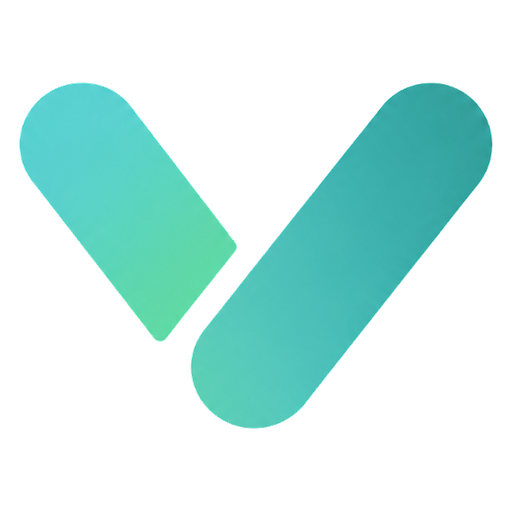
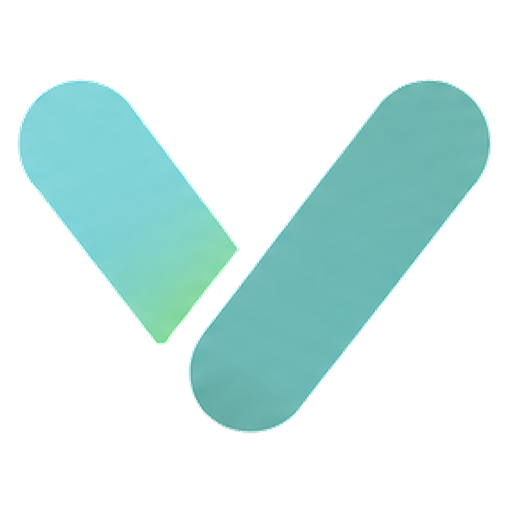
feat(auth): login redesigned to the user's mock + the new brand artwork
The login page is one centered card: a warm-cream crown ending in a
pedestal curve, the brand mark in a white medallion straddling it,
welcome copy and three capsule-pill benefits (all live i18n, he+en),
then the quiet form — eye-toggle PasswordField, forgot-password under
the field, divider + register link. Three earlier shapes (signup-style
side panel, flat teal band, teal-gradient crown) were rejected by the
user in live review.

Brand refresh: the user's VitaShop-correct.png replaces the logo
source; the V mark is cropped from it and the committed pipelines
reran (mark, favicon, apple-touch-icon). New committed
scripts/make-logo-transparent.py derives the transparent lockup and
prints the content bbox; logoFrame.ts re-measured (1672x941, content
249,358,1212x222).

Review (8 angles, 10 findings, all fixed): curve-clip escape measured
and closed - shadows removed per DESIGN_SYSTEM #3/DEC-041 - merge-report
focus moved to the report (the unmount-takes-focus family) - dead
login.title key dropped - auth gains its missing i18n parity suite
(+3 tests, control included) - stale logoFrame/CONTENT_ASSETS/AuthCard
records corrected.

client 1060/1060 - build 0 - overflow clean at 8 widths x he+en.

Changed region(s): [[0.0312, 0.1562, 0.9688, 0.8438]]

diff --git a/client/src/pages/LoginPage.tsx b/client/src/pages/LoginPage.tsx
@@ -1,8 +1,12 @@
-import { useState, type FormEvent } from 'react'
+import { useEffect, useRef, useState, type FormEvent, type ReactNode } from 'react'
 import { TextLink } from '../components/ui/TextLink'
 import { useTranslation } from 'react-i18next'
 import { useNavigate } from 'react-router'
-import { AuthCard, Field, FormError } from '../components/auth/AuthLayout'
+import { Field, FormError } from '../components/auth/AuthLayout'
+import { PasswordField } from '../components/auth/PasswordField'
+import { Logo } from '../components/brand/Logo'
+import { Icon } from '../components/ui/Icon'
+import { CheckCircleIcon } from '../components/icons'
 import { Button } from '../components/ui/Button'
 import { login, type AuthFailure } from '../lib/authApi'
 import { isCartMergeReport } from '../lib/cartApi'
@@ -12,6 +16,16 @@ import type { CartMergeReport } from '../types/cart'
 
 /**
  * MILESTONE-006 Checkpoint H — the login form.
+ * Redesigned 2026-08-25 to the user's mock, re-shaped twice on their
+ * feedback (the two-panel side layout read as "same design as two other
+ * pages"; the flat band "still not looking good"). The shipped shape is
+ * ONE centered card whose header is the design: a warm-cream crown (the
+ * user's swatch — the surface-section token) ending in a shallow PEDESTAL
+ * CURVE (the home hero's ellipse language), the brand mark in a white
+ * medallion straddling the curve, ברוכים הבאים in display ink, the user's
+ * sentence, and the three benefits as CAPSULE PILLS — the supplement-shop
+ * wink. Form below, quiet. All copy live i18n; no image asset. (An earlier
+ * teal-gradient crown was rejected by the user — don't reintroduce it.)
  *
  * 🔴 CLAUSE H2. A1 IS UNDONE BY A HELPFUL UI AS EASILY AS BY A HELPFUL API.
  * The server returns ONE failure for unknown email, wrong password, locked
@@ -28,6 +42,63 @@ import type { CartMergeReport } from '../types/cart'
  * that format is a fact about what was typed, existence is a fact about who
  * is registered.
  */
+
+/**
+ * The one-card shell, shared by the form and the merge-report state so the
+ * card never changes shape mid-flow. The header is real content (the <h1>
+ * lives in it), never a decorative panel. The pedestal curve is drawn with
+ * an asymmetric border-radius on the teal block — the white card ground
+ * showing through the rounded bottom corners IS the curve; no SVG, no
+ * pseudo-element, so it mirrors trivially and costs nothing.
+ */
+function LoginShell({ children }: { children: ReactNode }) {
+  const { t } = useTranslation(['auth', 'common'])
+  return (
+    <section aria-labelledby="login-title" className="mx-auto w-full max-w-md px-4 py-4 sm:max-w-lg sm:py-5">
+      {/* No at-rest shadow — DESIGN_SYSTEM §3 / DEC-041 reserve elevation
+          for transient hover/focus states; the border carries the edge. */}
+      <div className="overflow-hidden rounded-card border border-border-card bg-well">
+        {/* The crown — the user's swatch is the system's warm cream
+            (surface-section), so the crown wears that token with ink text
+            and a sunken-tone highlight circle, ending in the pedestal
+            curve. pb accounts for the medallion overlapping below. */}
+        <div
+          className="relative bg-surface-section px-6 pb-9 pt-4 text-center"
+          style={{ borderRadius: '0 0 50% 50% / 0 0 26px 26px' }}
+        >
+          {/* The clip wrapper carries the SAME border-radius as the crown:
+              a rectangular clip let the circle paint over the corner where
+              the white ground draws the curve (caught by review — measured
+              circle bottom 259px vs crown bottom 249px). */}
+          <div
+            aria-hidden="true"
+            className="pointer-events-none absolute inset-0 overflow-hidden"
+            style={{ borderRadius: '0 0 50% 50% / 0 0 26px 26px' }}
+          >
+            <div className="absolute -top-14 -end-10 size-44 rounded-full bg-surface-sunken/70" />
+          </div>
+          <p className="relative font-display text-base font-medium text-brand-teal-strong">
+            {t('app.name', { ns: 'common' })}
+          </p>
+          <h1 id="login-title" className="relative mt-0.5 font-display text-2xl font-semibold text-text-ink">
+            {t('login.welcomeTitle')}
+          </h1>
+        </div>
+        {/* The medallion — the transparent mark in a white disc straddling
+            the curve. Decorative (the wordmark above already names the
+            brand); Logo's own alt is suppressed by the aria-hidden span. */}
+        <span
+          aria-hidden="true"
+          className="relative z-10 mx-auto -mt-9 flex size-16 items-center justify-center rounded-full border border-border-card bg-well motion-safe:animate-[hero-shelf-rise_.45s_ease-out_both]"
+        >
+          <Logo variant="mark" size={42} />
+        </span>
+        <div className="px-6 pb-5 pt-2">{children}</div>
+      </div>
+    </section>
+  )
+}
+
 export function LoginPage() {
   const { t, i18n } = useTranslation('auth')
   const { t: tCart } = useTranslation('cart')
@@ -50,6 +121,16 @@ export function LoginPage() {
    * be surprised by, so it navigates exactly as before.
    */
   const [mergeReport, setMergeReport] = useState<CartMergeReport | null>(null)
+  /**
+   * 🔴 The unmount-takes-focus family (browser-verification.md): swapping the
+   * form for the report unmounts the focused submit button, and a status
+   * region that mounts WITH its content is not announced. Moving focus to
+   * the report container makes the outcome both reachable and read aloud.
+   */
+  const reportRef = useRef<HTMLDivElement | null>(null)
+  useEffect(() => {
+    if (mergeReport) reportRef.current?.focus()
+  }, [mergeReport])
 
   async function onSubmit(event: FormEvent) {
     event.preventDefault()
@@ -124,9 +205,16 @@ export function LoginPage() {
     const unavailable = mergeReport.dropped.filter((entry) => entry.reason === 'UNAVAILABLE')
 
     return (
-      <AuthCard titleId="login-title" title={t('login.title')}>
-        {/* One region, polite: this is a report, not an error to interrupt with. */}
-        <div role="status" className="flex flex-col gap-3 text-sm text-text-ink">
+      <LoginShell>
+        {/* One region, polite: this is a report, not an error to interrupt
+            with. tabIndex -1 so the effect above can land focus here after
+            the form (and its focused submit button) unmounts. */}
+        <div
+          role="status"
+          ref={reportRef}
+          tabIndex={-1}
+          className="mt-4 flex flex-col gap-3 text-sm text-text-ink outline-none"
+        >
           {mergeReport.mergeFailed && <p className="text-state-error">{tCart('merge.failed')}</p>}
           {mergeReport.merged && !mergeReport.mergeFailed && <p>{tCart('merge.merged')}</p>}
           {mergeReport.clampedSlugs.length > 0 && (
@@ -152,12 +240,32 @@ export function LoginPage() {
             {tCart('page.backToCatalog')}
           </TextLink>
         </p>
-      </AuthCard>
+      </LoginShell>
     )
   }
 
   return (
-    <AuthCard titleId="login-title" title={t('login.title')}>
+    <LoginShell>
+      <p className="mx-auto max-w-md text-center text-sm text-text-muted">
+        {t('login.welcomeBody')}
+      </p>
+      {/* The three benefits as capsule pills — flat text in the mock, given
+          the shop's own shape here. Soft teal fill, strong-teal ink
+          (measured family: brand-teal-strong on the /10 wash ≥7:1). */}
+      <ul className="mt-3 flex flex-wrap justify-center gap-2">
+        {(['bullet1', 'bullet2', 'bullet3'] as const).map((key, index) => (
+          <li
+            key={key}
+            className="flex items-center gap-1 rounded-round bg-brand-teal/10 px-2.5 py-1.5 text-xs font-medium text-brand-teal-strong motion-safe:animate-[hero-shelf-rise_.45s_ease-out_both]"
+            style={{ animationDelay: `${90 + index * 70}ms` }}
+          >
+            <Icon size={14} className="shrink-0 text-brand-teal">
+              <CheckCircleIcon />
+            </Icon>
+            {t(`login.${key}`)}
+          </li>
+        ))}
+      </ul>
       <form onSubmit={onSubmit} noValidate>
         <Field
           label={t('login.emailLabel')}
@@ -170,13 +278,19 @@ export function LoginPage() {
           // this field invalid on a failed login points at the email as the
           // problem, which is exactly what A1 refuses to say.
         />
-        <Field
+        <PasswordField
           label={t('login.passwordLabel')}
-          type="password"
           autoComplete="current-password"
           value={password}
           onChange={setPassword}
         />
+        {/* The mock places forgot-password directly under the field, on the
+            inline-end side — logical alignment, so it mirrors in RTL. */}
+        <p className="mt-1 text-end text-sm">
+          <TextLink to="/forgot-password">
+            {t('login.forgotPassword')}
+          </TextLink>
+        </p>
 
         <FormError message={message} />
 
@@ -185,17 +299,19 @@ export function LoginPage() {
         </Button>
       </form>
 
-      <p className="mt-6 text-sm">
-        <TextLink to="/forgot-password">
-          {t('login.forgotPassword')}
-        </TextLink>
-      </p>
-      <p className="mt-2 text-sm text-text-muted">
+      {/* The mock's divider — decorative; the register link is the content. */}
+      <div aria-hidden="true" className="mt-4 flex items-center gap-3">
+        <span className="h-px flex-1 bg-border-hairline" />
+        <span className="text-sm text-text-muted">{t('login.orDivider')}</span>
+        <span className="h-px flex-1 bg-border-hairline" />
+      </div>
+
+      <p className="mt-2 text-center text-sm text-text-muted">
         {t('login.noAccount')}{' '}
         <TextLink to="/register" inline>
           {t('login.registerLink')}
         </TextLink>
       </p>
-    </AuthCard>
+    </LoginShell>
   )
 }

diff --git a/client/src/components/brand/logoFrame.ts b/client/src/components/brand/logoFrame.ts
@@ -1,34 +1,30 @@
 /**
  * Frame geometry for `vitashop-logo-transparent.png` — replaces a flawed
  * `object-fit: cover` attempt. `cover`'s crop is driven by the FULL
- * CANVAS's own aspect ratio (1536×1024 = 1.5) vs. the box, not by the
- * trimmed content's aspect ratio (5.58). Since 1.5 is squarer than any
- * usable header-logo box (~6:1), `cover` is *always* width-constrained
- * for this asset — it shows the entire 1536px width (including ~360px of
- * side padding) and only ever crops vertically. Two real consequences,
- * confirmed by the arithmetic, not assumed:
- *   1. The rendered wordmark ends up smaller than intended, because a
- *      third of the box's width is unavoidably spent on transparent
- *      side-padding instead of letters — this is what read as "soft".
- *   2. Centering on the CANVAS's vertical midpoint (512) instead of the
- *      CONTENT's own vertical midpoint (484.5, since the content sits
- *      higher in the canvas than centre) clipped ~5.5 original-px off
- *      the content's top edge — sub-pixel at these sizes, but real, and
- *      exactly the kind of accidental clip this rewrite removes on
- *      principle rather than leaving in place because it's small.
+ * CANVAS's aspect ratio vs. the box, not by the trimmed content's much
+ * wider aspect. Every revision of this asset has a canvas far squarer
+ * than any usable header-logo box (~5.5:1 content), so `cover` is always
+ * width-constrained: it spends box width on transparent side-padding
+ * (rendering the wordmark smaller than intended, which read as "soft")
+ * and centres on the canvas midpoint instead of the content's own,
+ * clipping the content's edge by whatever the two midpoints differ.
  *
  * Fix: scale from the CONTENT's own bounding box, then translate so the
  * content is centred in a wrapper sized to content + a safe margin.
- * Content bbox (measured by pixel/alpha scan, see CONTENT_ASSETS.md):
- * x=187, y=379, w=1177, h=211 inside the 1536×1024 canvas.
+ * Content bbox is measured by alpha scan — never hand-estimated — by the
+ * committed derivation script `scripts/make-logo-transparent.py`, which
+ * prints it when regenerating the transparent asset; the doc of record is
+ * design/CONTENT_ASSETS.md in the memory system. Re-measured 2026-08-25
+ * for the user's replacement artwork (VitaShop-correct.png — teal mark +
+ * navy wordmark): x=249, y=358, w=1212, h=222 inside the 1672×941 canvas.
  */
 
-const SOURCE_WIDTH = 1536
-const SOURCE_HEIGHT = 1024
-const CONTENT_X = 187
-const CONTENT_Y = 379
-const CONTENT_WIDTH = 1177
-const CONTENT_HEIGHT = 211
+const SOURCE_WIDTH = 1672
+const SOURCE_HEIGHT = 941
+const CONTENT_X = 249
+const CONTENT_Y = 358
+const CONTENT_WIDTH = 1212
+const CONTENT_HEIGHT = 222
 
 /** 8% of the scaled content's own size, split evenly on each side — enough to never clip, small enough not to shrink the logo. */
 const MARGIN_RATIO = 0.08

diff --git a/client/src/locales/auth.i18n.test.ts b/client/src/locales/auth.i18n.test.ts
@@ -1,0 +1,38 @@
+import { describe, expect, it } from 'vitest'
+import authHe from './he/auth.json'
+import authEn from './en/auth.json'
+import { validateNamespacePair, type LocaleTree } from './localeIntegrity'
+
+/**
+ * Namespace-integrity test for `auth` — added 2026-08-25 (the login
+ * redesign review): auth was the ONE shipped namespace without the shared
+ * 9-rule validator, and that same pass hand-added six keys to both locales
+ * with nothing guarding them. Same shape as every sibling suite: the real
+ * pair must pass, and a control proves the check can go red.
+ *
+ * No plural families; no placeholders — key parity is the load-bearing
+ * rule.
+ */
+
+const HE = authHe as unknown as LocaleTree
+const EN = authEn as unknown as LocaleTree
+
+describe('auth namespace integrity', () => {
+  it('the shipped he/en pair passes the full validator', () => {
+    expect(validateNamespacePair(HE, EN)).toEqual([])
+  })
+
+  it('🔴 the control — a he-only key is caught', () => {
+    const mutated = { ...HE, login: { ...(HE.login as LocaleTree), extraKey: 'ערך' } }
+    expect(validateNamespacePair(mutated, EN)).not.toEqual([])
+  })
+
+  it('the login redesign keys the page renders all exist', () => {
+    for (const tree of [HE, EN]) {
+      const login = tree.login as Record<string, unknown>
+      for (const key of ['welcomeTitle', 'welcomeBody', 'bullet1', 'bullet2', 'bullet3', 'orDivider']) {
+        expect(typeof login[key], `login.${key}`).toBe('string')
+      }
+    }
+  })
+})

diff --git a/client/src/components/auth/AuthLayout.tsx b/client/src/components/auth/AuthLayout.tsx
@@ -27,7 +27,11 @@ export function AuthCard({
       aria-labelledby={titleId}
     >
       {/* Same section-scale display treatment as RequireAuth's gate title —
-          the two render the same auth moment and must match. */}
+          the two render the same auth moment and must match. (LoginPage left
+          AuthCard in the 2026-08-25 redesign, on the user's direction — its
+          welcome heading is deliberately larger; that departure amends this
+          pairing for login only, the gate and the remaining AuthCard pages
+          still match each other.) */}
       <h1 id={titleId} className="heading-section">
         {title}
       </h1>

diff --git a/scripts/make-logo-transparent.py b/scripts/make-logo-transparent.py
@@ -1,0 +1,68 @@
+# ISSUE-018 follow-up — derive the transparent full-logo (mark + wordmark)
+# from the untouched source, the same family as make-mark-transparent.py and
+# make-favicon.py. Committed (2026-08-25 review finding) so the next logo
+# revision regenerates the asset and re-measures the content bbox with one
+# command instead of hand-typing constants.
+#
+# Reads assets/brand/source/logo-with-name.png (never modified), lifts the
+# near-white ground to transparency across the FULL canvas (no trim — the
+# Logo component's frame math in client/src/components/brand/logoFrame.ts
+# handles content placement), prints the content bbox to copy into
+# logoFrame.ts, and exports to both homes the repo convention uses:
+#
+#   assets/brand/web/vitashop-logo-transparent.png         the canonical derived asset
+#   client/src/assets/brand/vitashop-logo-transparent.png  the bundler's copy
+#
+# Run from the repo root:  python scripts/make-logo-transparent.py
+from pathlib import Path
+
+from PIL import Image
+
+REPO = Path(__file__).resolve().parent.parent
+SRC = REPO / "assets/brand/source/logo-with-name.png"
+OUTS = [
+    REPO / "assets/brand/web/vitashop-logo-transparent.png",
+    REPO / "client/src/assets/brand/vitashop-logo-transparent.png",
+]
+
+# Slightly looser than the mark script's 235/12: the 2026-08 artwork's ground
+# carries a faint vignette that 235 leaves behind as a ghost box.
+GROUND_MIN_CHANNEL = 228
+GROUND_MAX_SPREAD = 14
+
+
+def is_ground(r: int, g: int, b: int) -> bool:
+    return (
+        r > GROUND_MIN_CHANNEL
+        and g > GROUND_MIN_CHANNEL
+        and b > GROUND_MIN_CHANNEL
+        and max(r, g, b) - min(r, g, b) < GROUND_MAX_SPREAD
+    )
+
+
+def main() -> None:
+    img = Image.open(SRC).convert("RGBA")
+    w, h = img.size
+    px = img.load()
+
+    for y in range(h):
+        for x in range(w):
+            r, g, b, a = px[x, y]
+            if is_ground(r, g, b):
+                px[x, y] = (r, g, b, 0)
+
+    corner_alphas = [px[0, 0][3], px[w - 1, 0][3], px[0, h - 1][3], px[w - 1, h - 1][3]]
+    if any(corner_alphas):
+        raise SystemExit(f"ground lift incomplete — corner alphas {corner_alphas}, tune thresholds")
+
+    bbox = img.getbbox()
+    print(f"canvas: {w}x{h}")
+    print(f"content bbox for logoFrame.ts: x={bbox[0]} y={bbox[1]} w={bbox[2] - bbox[0]} h={bbox[3] - bbox[1]}")
+
+    for out in OUTS:
+        img.save(out)
+        print("written:", out)
+
+
+if __name__ == "__main__":
+    main()
